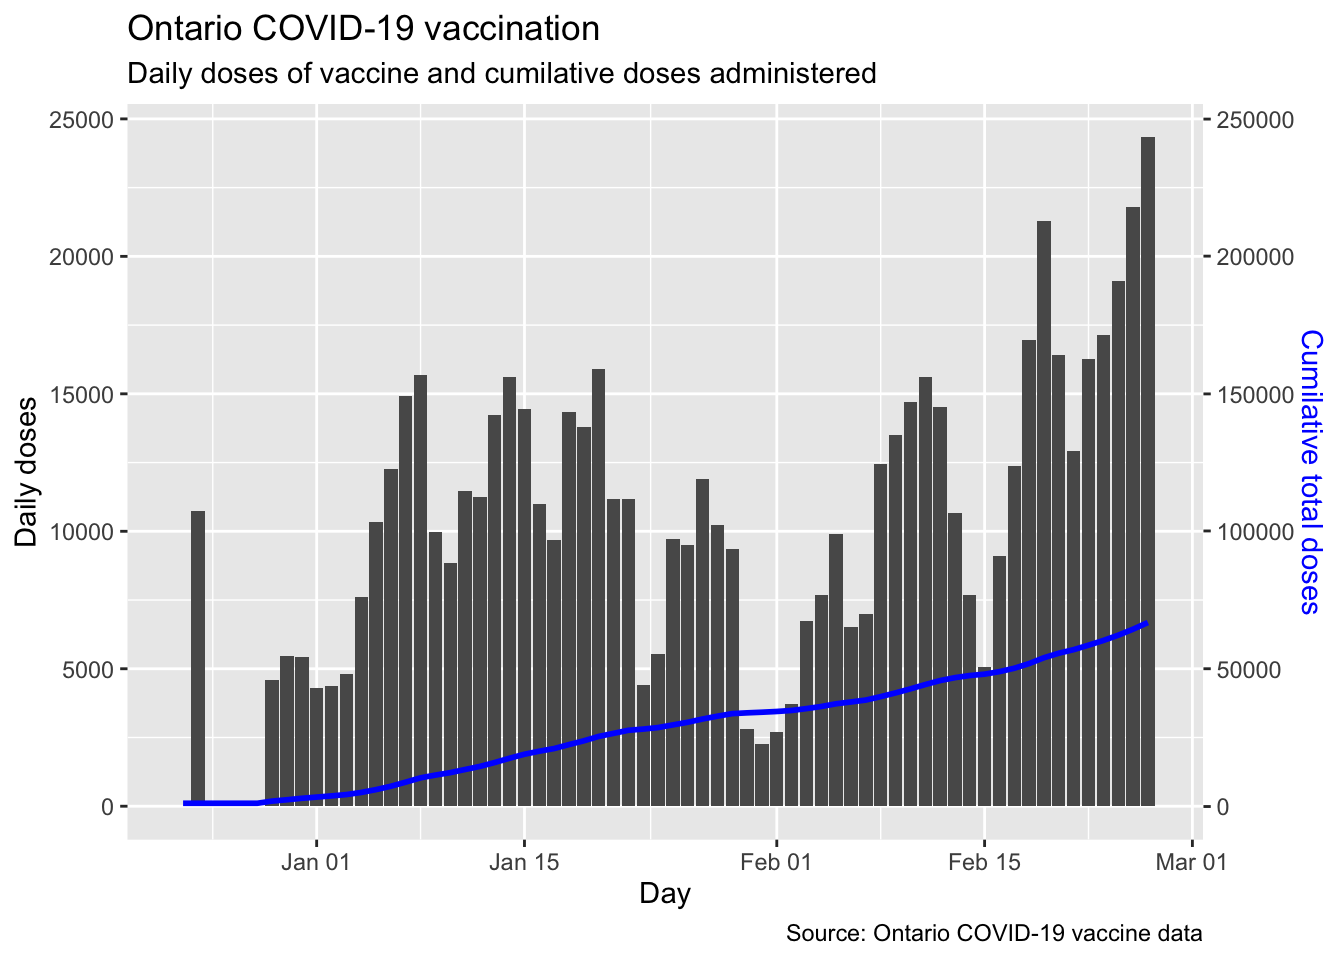
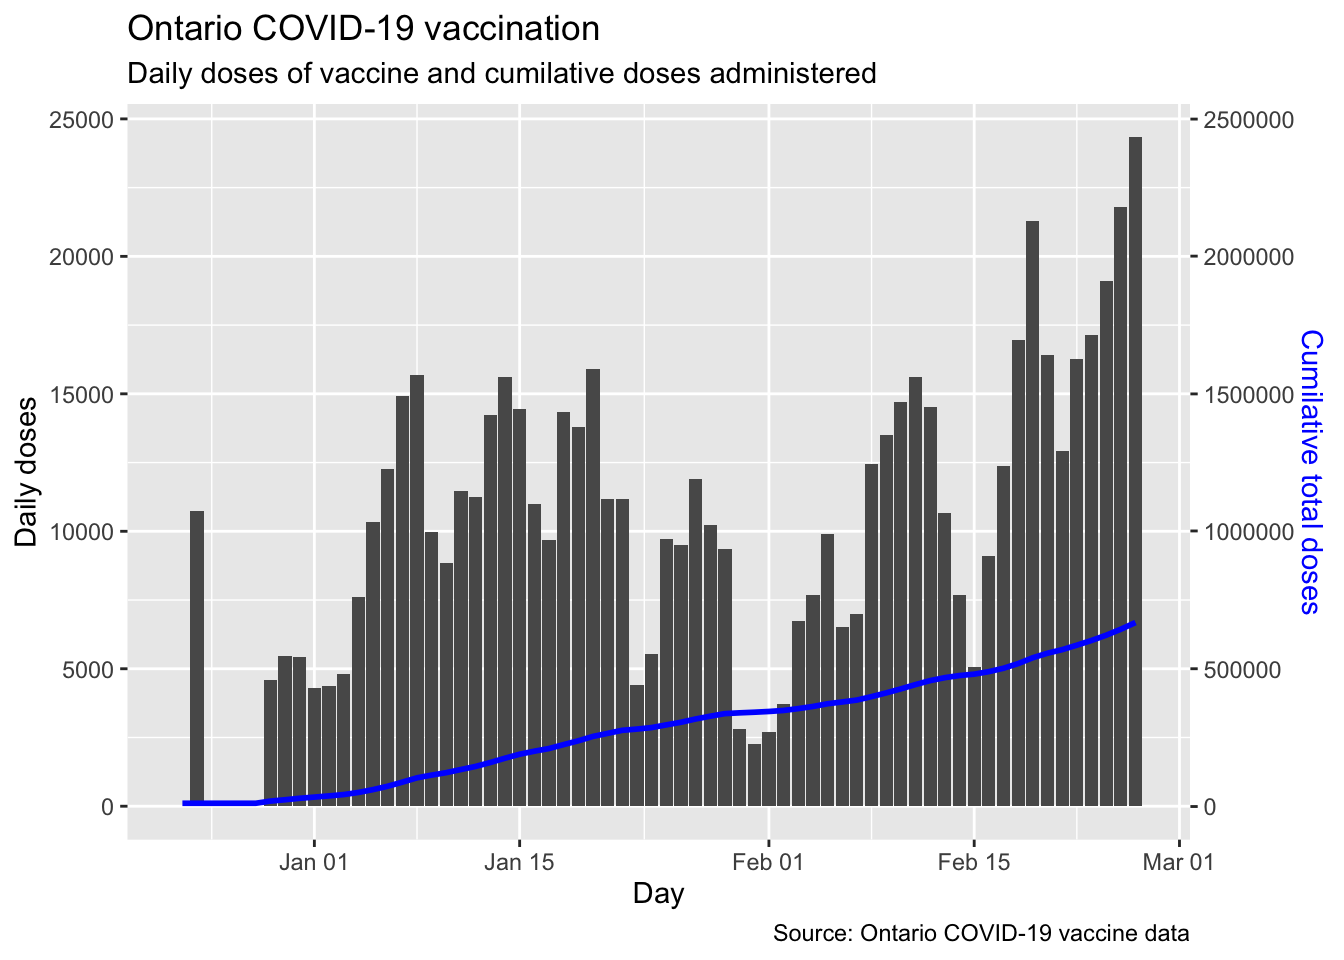
Updateds
Updated scale for cumulative doses, added code citation and rmarkdown citation.

diff --git a/docs/index.html b/docs/index.html
@@ -327,8 +327,13 @@ pre code {
 <p>Ontario COVID-19 Vaccine Data <a href="https://data.ontario.ca/dataset/covid-19-vaccine-data-in-ontario/resource/8a89caa9-511c-4568-af89-7f2174b4378c?view_id=9e42f55b-723f-46dd-b0d9-643670e01fed" class="uri">https://data.ontario.ca/dataset/covid-19-vaccine-data-in-ontario/resource/8a89caa9-511c-4568-af89-7f2174b4378c?view_id=9e42f55b-723f-46dd-b0d9-643670e01fed</a> published under an Open Government Licence – Ontario version 1.0 (<a href="https://www.ontario.ca/page/open-government-licence-ontario" class="uri">https://www.ontario.ca/page/open-government-licence-ontario</a>)</p>
 <p>Statistics Canada. Table 17-10-0005-01 Population estimates on July 1st, by age and sex. <a href="https://doi.org/10.25318/1710000501-eng" class="uri">https://doi.org/10.25318/1710000501-eng</a></p>
 </div>
+<div id="code" class="section level3">
+<h3>Code</h3>
+<p>Horton, L. (2021). Ontario Covid Vaccinations. <em>GitHub repository</em>, <a href="https://github.com/laurencehorton/ontario-covid-vaccinations" class="uri">https://github.com/laurencehorton/ontario-covid-vaccinations</a></p>
+</div>
 <div id="r-packages" class="section level3">
 <h3>R packages</h3>
+<p>Allaire, J.J. et. al. (2021). <em>rmarkdown: Dynamic Documents for R. R package version 2.7</em>. <a href="https://rmarkdown.rstudio.com" class="uri">https://rmarkdown.rstudio.com</a></p>
 <p>Couture-Bell, A. (2018). rjson: JSON for R, <em>R package version 0.2.20</em> <a href="https://CRAN.R-project.org/package=rjson" class="uri">https://CRAN.R-project.org/package=rjson</a></p>
 <p>Grolemund, G., Wickham, H. (2011). Dates and times made easy with {lubridate}, <em>Journal of Statistical Software, 40</em>(3), 1-25. <a href="https://www.jstatsoft.org/v40/i03/" class="uri">https://www.jstatsoft.org/v40/i03/</a></p>
 <p>R Core Team. (2018). <em>R: A Language and Environment for Statistical Computing. R Foundation for Statistical Computing</em>, <a href="https://www.R-project.org/" class="uri">https://www.R-project.org/</a></p>
